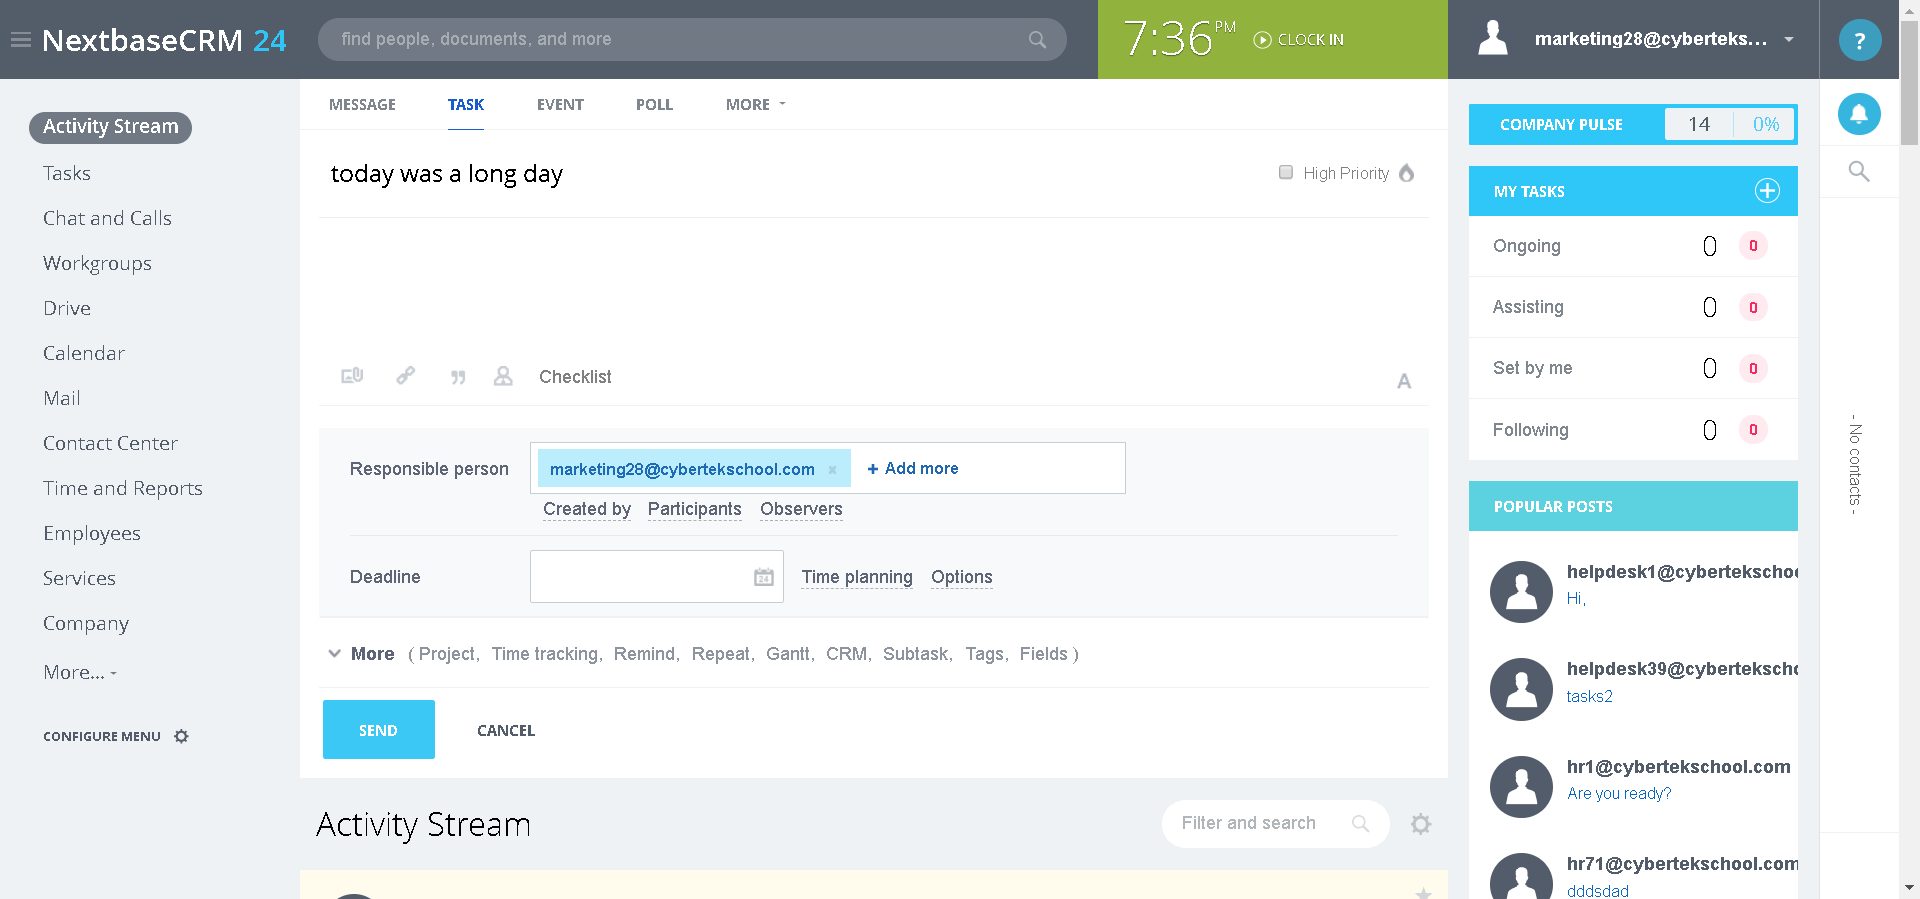
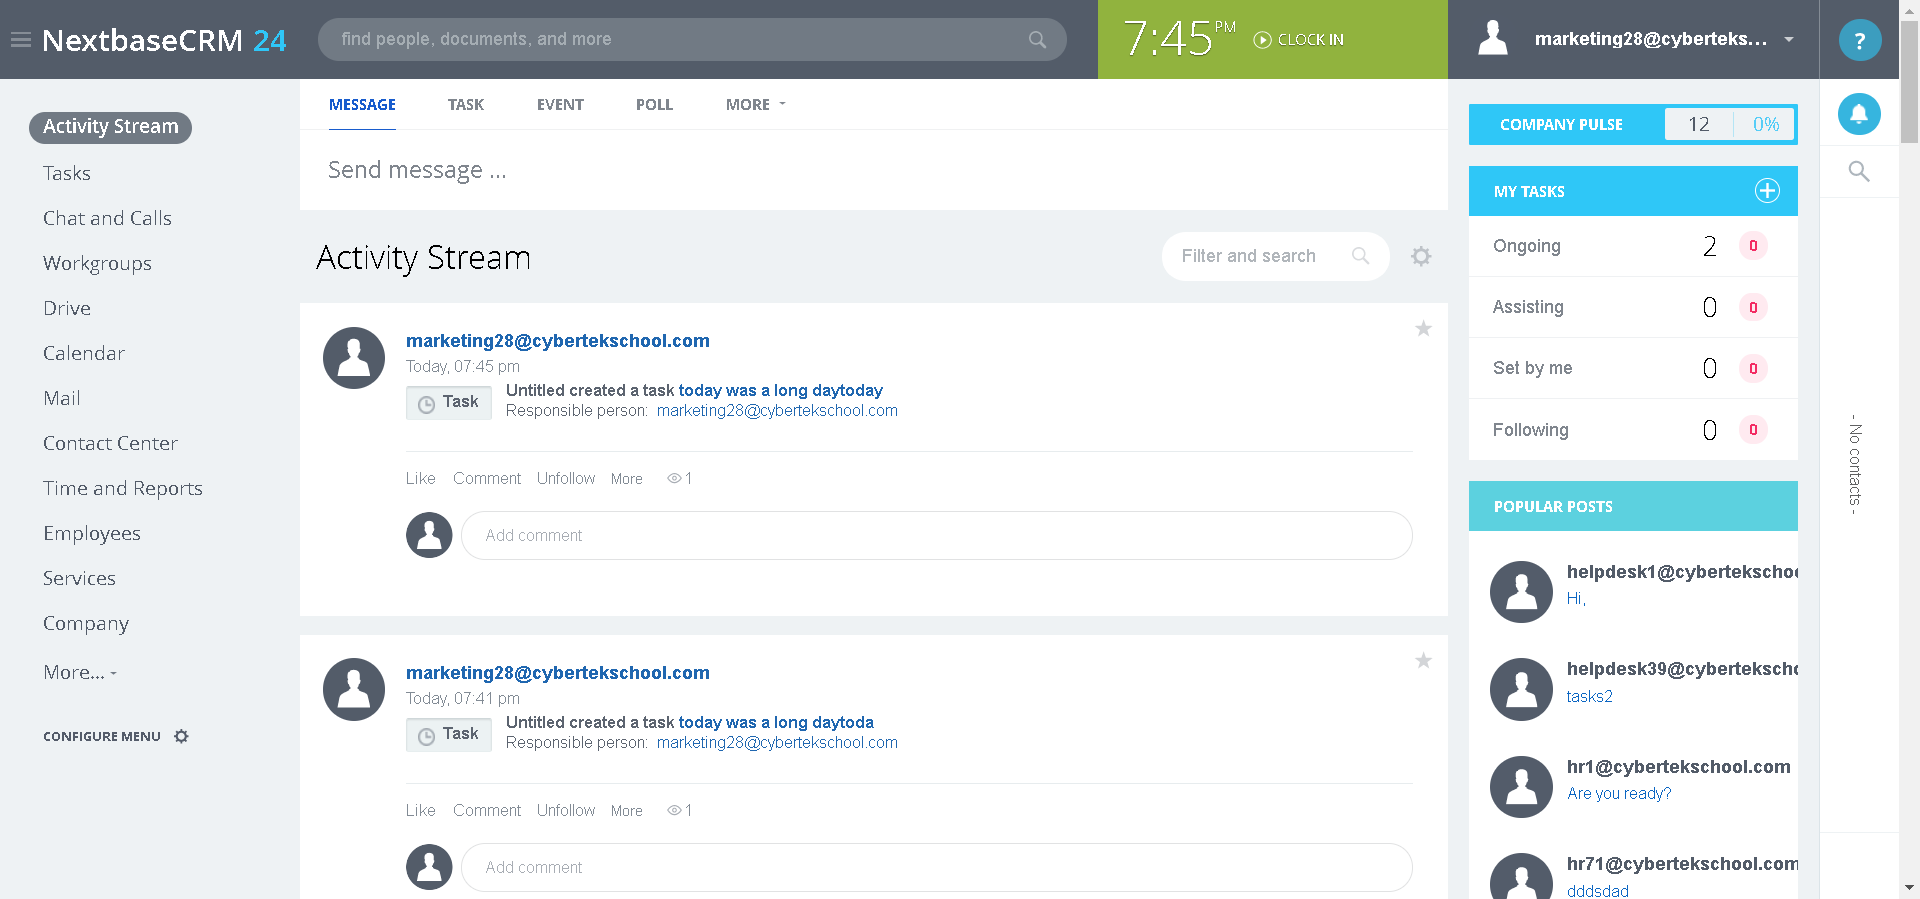
.

diff --git a/target/default-cucumber-reports/report.js b/target/default-cucumber-reports/report.js
@@ -83,8 +83,7 @@ formatter.match({
   "location": "TasksStepDefinitions.click_on_send_button()"
 });
 formatter.result({
-  "error_message": "org.openqa.selenium.NoSuchElementException: Cannot locate an element using id\u003dblog-submit-button-save \nFor documentation on this error, please visit: https://www.seleniumhq.org/exceptions/no_such_element.html\nBuild info: version: \u00273.141.59\u0027, revision: \u0027e82be7d358\u0027, time: \u00272018-11-14T08:17:03\u0027\nSystem info: host: \u0027WINDOW007\u0027, ip: \u0027192.168.0.18\u0027, os.name: \u0027Windows 10\u0027, os.arch: \u0027amd64\u0027, os.version: \u002710.0\u0027, java.version: \u00271.8.0_212\u0027\nDriver info: driver.version: RemoteWebDriver\r\n\tat org.openqa.selenium.remote.RemoteWebDriver.findElement(RemoteWebDriver.java:327)\r\n\tat org.openqa.selenium.remote.RemoteWebDriver.findElementById(RemoteWebDriver.java:372)\r\n\tat org.openqa.selenium.By$ById.findElement(By.java:188)\r\n\tat org.openqa.selenium.remote.RemoteWebDriver.findElement(RemoteWebDriver.java:315)\r\n\tat org.openqa.selenium.support.pagefactory.DefaultElementLocator.findElement(DefaultElementLocator.java:69)\r\n\tat org.openqa.selenium.support.pagefactory.internal.LocatingElementHandler.invoke(LocatingElementHandler.java:38)\r\n\tat com.sun.proxy.$Proxy16.click(Unknown Source)\r\n\tat com.cybertek.step_definitions.TasksStepDefinitions.click_on_send_button(TasksStepDefinitions.java:42)\r\n\tat ✽.click on send button(src\\test\\resources\\features\\activity_stream\\activity_stream.feature:11)\r\n",
-  "status": "failed"
+  "status": "passed"
 });
 formatter.step({
   "name": "user verifies that file was added",
@@ -94,7 +93,8 @@ formatter.match({
   "location": "TasksStepDefinitions.user_verifies_that_file_was_added()"
 });
 formatter.result({
-  "status": "skipped"
+  "error_message": "org.junit.ComparisonFailure: expected:\u003c[19:45]\u003e but was:\u003c[today, 07:45 pm]\u003e\r\n\tat org.junit.Assert.assertEquals(Assert.java:115)\r\n\tat org.junit.Assert.assertEquals(Assert.java:144)\r\n\tat com.cybertek.step_definitions.TasksStepDefinitions.user_verifies_that_file_was_added(TasksStepDefinitions.java:55)\r\n\tat ✽.user verifies that file was added(src\\test\\resources\\features\\activity_stream\\activity_stream.feature:12)\r\n",
+  "status": "failed"
 });
 formatter.step({
   "name": "user quits",
@@ -106,8 +106,8 @@ formatter.match({
 formatter.result({
   "status": "skipped"
 });
+formatter.embedding("image/png", "embedded0.png");
 formatter.after({
-  "error_message": "org.openqa.selenium.NoSuchWindowException: no such window: target window already closed\nfrom unknown error: web view not found\n  (Session info: chrome\u003d76.0.3809.100)\nBuild info: version: \u00273.141.59\u0027, revision: \u0027e82be7d358\u0027, time: \u00272018-11-14T08:17:03\u0027\nSystem info: host: \u0027WINDOW007\u0027, ip: \u0027192.168.0.18\u0027, os.name: \u0027Windows 10\u0027, os.arch: \u0027amd64\u0027, os.version: \u002710.0\u0027, java.version: \u00271.8.0_212\u0027\nDriver info: org.openqa.selenium.chrome.ChromeDriver\nCapabilities {acceptInsecureCerts: false, browserName: chrome, browserVersion: 76.0.3809.100, chrome: {chromedriverVersion: 76.0.3809.68 (420c9498db8ce..., userDataDir: C:\\Users\\Bbogush\\AppData\\Lo...}, goog:chromeOptions: {debuggerAddress: localhost:63329}, javascriptEnabled: true, networkConnectionEnabled: false, pageLoadStrategy: normal, platform: XP, platformName: XP, proxy: Proxy(), setWindowRect: true, strictFileInteractability: false, timeouts: {implicit: 0, pageLoad: 300000, script: 30000}, unhandledPromptBehavior: dismiss and notify}\nSession ID: d54e634b3a804dc685d79d8718c62f37\r\n\tat sun.reflect.NativeConstructorAccessorImpl.newInstance0(Native Method)\r\n\tat sun.reflect.NativeConstructorAccessorImpl.newInstance(NativeConstructorAccessorImpl.java:62)\r\n\tat sun.reflect.DelegatingConstructorAccessorImpl.newInstance(DelegatingConstructorAccessorImpl.java:45)\r\n\tat java.lang.reflect.Constructor.newInstance(Constructor.java:423)\r\n\tat org.openqa.selenium.remote.http.W3CHttpResponseCodec.createException(W3CHttpResponseCodec.java:187)\r\n\tat org.openqa.selenium.remote.http.W3CHttpResponseCodec.decode(W3CHttpResponseCodec.java:122)\r\n\tat org.openqa.selenium.remote.http.W3CHttpResponseCodec.decode(W3CHttpResponseCodec.java:49)\r\n\tat org.openqa.selenium.remote.HttpCommandExecutor.execute(HttpCommandExecutor.java:158)\r\n\tat org.openqa.selenium.remote.service.DriverCommandExecutor.execute(DriverCommandExecutor.java:83)\r\n\tat org.openqa.selenium.remote.RemoteWebDriver.execute(RemoteWebDriver.java:552)\r\n\tat org.openqa.selenium.remote.RemoteWebDriver.execute(RemoteWebDriver.java:609)\r\n\tat org.openqa.selenium.remote.RemoteWebDriver.getScreenshotAs(RemoteWebDriver.java:295)\r\n\tat com.cybertek.step_definitions.Hook.teardown(Hook.java:25)\r\n\tat sun.reflect.NativeMethodAccessorImpl.invoke0(Native Method)\r\n\tat sun.reflect.NativeMethodAccessorImpl.invoke(NativeMethodAccessorImpl.java:62)\r\n\tat sun.reflect.DelegatingMethodAccessorImpl.invoke(DelegatingMethodAccessorImpl.java:43)\r\n\tat java.lang.reflect.Method.invoke(Method.java:498)\r\n\tat cucumber.runtime.Utils$1.call(Utils.java:26)\r\n\tat cucumber.runtime.Timeout.timeout(Timeout.java:16)\r\n\tat cucumber.runtime.Utils.invoke(Utils.java:20)\r\n\tat cucumber.runtime.java.JavaHookDefinition.execute(JavaHookDefinition.java:60)\r\n\tat cucumber.runner.HookDefinitionMatch.runStep(HookDefinitionMatch.java:16)\r\n\tat cucumber.runner.TestStep.executeStep(TestStep.java:63)\r\n\tat cucumber.runner.TestStep.run(TestStep.java:49)\r\n\tat cucumber.runner.TestCase.run(TestCase.java:48)\r\n\tat cucumber.runner.Runner.runPickle(Runner.java:40)\r\n\tat cucumber.runtime.junit.PickleRunners$NoStepDescriptions.run(PickleRunners.java:146)\r\n\tat cucumber.runtime.junit.FeatureRunner.runChild(FeatureRunner.java:67)\r\n\tat cucumber.runtime.junit.FeatureRunner.runChild(FeatureRunner.java:22)\r\n\tat org.junit.runners.ParentRunner$3.run(ParentRunner.java:290)\r\n\tat org.junit.runners.ParentRunner$1.schedule(ParentRunner.java:71)\r\n\tat org.junit.runners.ParentRunner.runChildren(ParentRunner.java:288)\r\n\tat org.junit.runners.ParentRunner.access$000(ParentRunner.java:58)\r\n\tat org.junit.runners.ParentRunner$2.evaluate(ParentRunner.java:268)\r\n\tat org.junit.runners.ParentRunner.run(ParentRunner.java:363)\r\n\tat cucumber.runtime.junit.FeatureRunner.run(FeatureRunner.java:72)\r\n\tat cucumber.api.junit.Cucumber.runChild(Cucumber.java:122)\r\n\tat cucumber.api.junit.Cucumber.runChild(Cucumber.java:64)\r\n\tat org.junit.runners.ParentRunner$3.run(ParentRunner.java:290)\r\n\tat org.junit.runners.ParentRunner$1.schedule(ParentRunner.java:71)\r\n\tat org.junit.runners.ParentRunner.runChildren(ParentRunner.java:288)\r\n\tat org.junit.runners.ParentRunner.access$000(ParentRunner.java:58)\r\n\tat org.junit.runners.ParentRunner$2.evaluate(ParentRunner.java:268)\r\n\tat cucumber.api.junit.Cucumber$1.evaluate(Cucumber.java:131)\r\n\tat org.junit.runners.ParentRunner.run(ParentRunner.java:363)\r\n\tat org.junit.runner.JUnitCore.run(JUnitCore.java:137)\r\n\tat com.intellij.junit4.JUnit4IdeaTestRunner.startRunnerWithArgs(JUnit4IdeaTestRunner.java:68)\r\n\tat com.intellij.rt.execution.junit.IdeaTestRunner$Repeater.startRunnerWithArgs(IdeaTestRunner.java:47)\r\n\tat com.intellij.rt.execution.junit.JUnitStarter.prepareStreamsAndStart(JUnitStarter.java:242)\r\n\tat com.intellij.rt.execution.junit.JUnitStarter.main(JUnitStarter.java:70)\r\n",
-  "status": "failed"
+  "status": "passed"
 });
 });

diff --git a/src/test/java/com/cybertek/step_definitions/TasksStepDefinitions.java b/src/test/java/com/cybertek/step_definitions/TasksStepDefinitions.java
@@ -51,7 +51,7 @@ public class TasksStepDefinitions  {
         String date1= dateFormat.format(date);
         String Current_time=date1;
         String Checklist_timeAdded = Driver.getDriver().findElement
-                (By.xpath("//div[@id='sonet_log_day_item_tyjC1BPu']//div[@class='feed-post-time-wrap']")).getText();
+                (By.cssSelector(".feed-time")).getText();
         Assert.assertEquals(Current_time, Checklist_timeAdded);
 
         String verify = Checklist_timeAdded==Current_time ? "Verified, checklist added": "Not verified, checklist not added";
@@ -59,5 +59,5 @@ public class TasksStepDefinitions  {
 
     }
 
-
+// //div[@id='sonet_log_day_item_tyjC1BPu']//div[@class='feed-post-time-wrap']
 }

diff --git a/src/test/java/com/cybertek/pages/activity_stream/TasksPage.java b/src/test/java/com/cybertek/pages/activity_stream/TasksPage.java
@@ -21,7 +21,7 @@ public class TasksPage {
  //span[@id='bx-b-uploadfile-task-form-lifefeed_task_form']
     // //span[contains(text(),'Select document from Bitrix24')]
     //
-    @FindBy (id ="blog-submit-button-save ")
+    @FindBy (xpath ="//button[@id='blog-submit-button-save']")
     @CacheLookup
     public WebElement SendButton;
 
